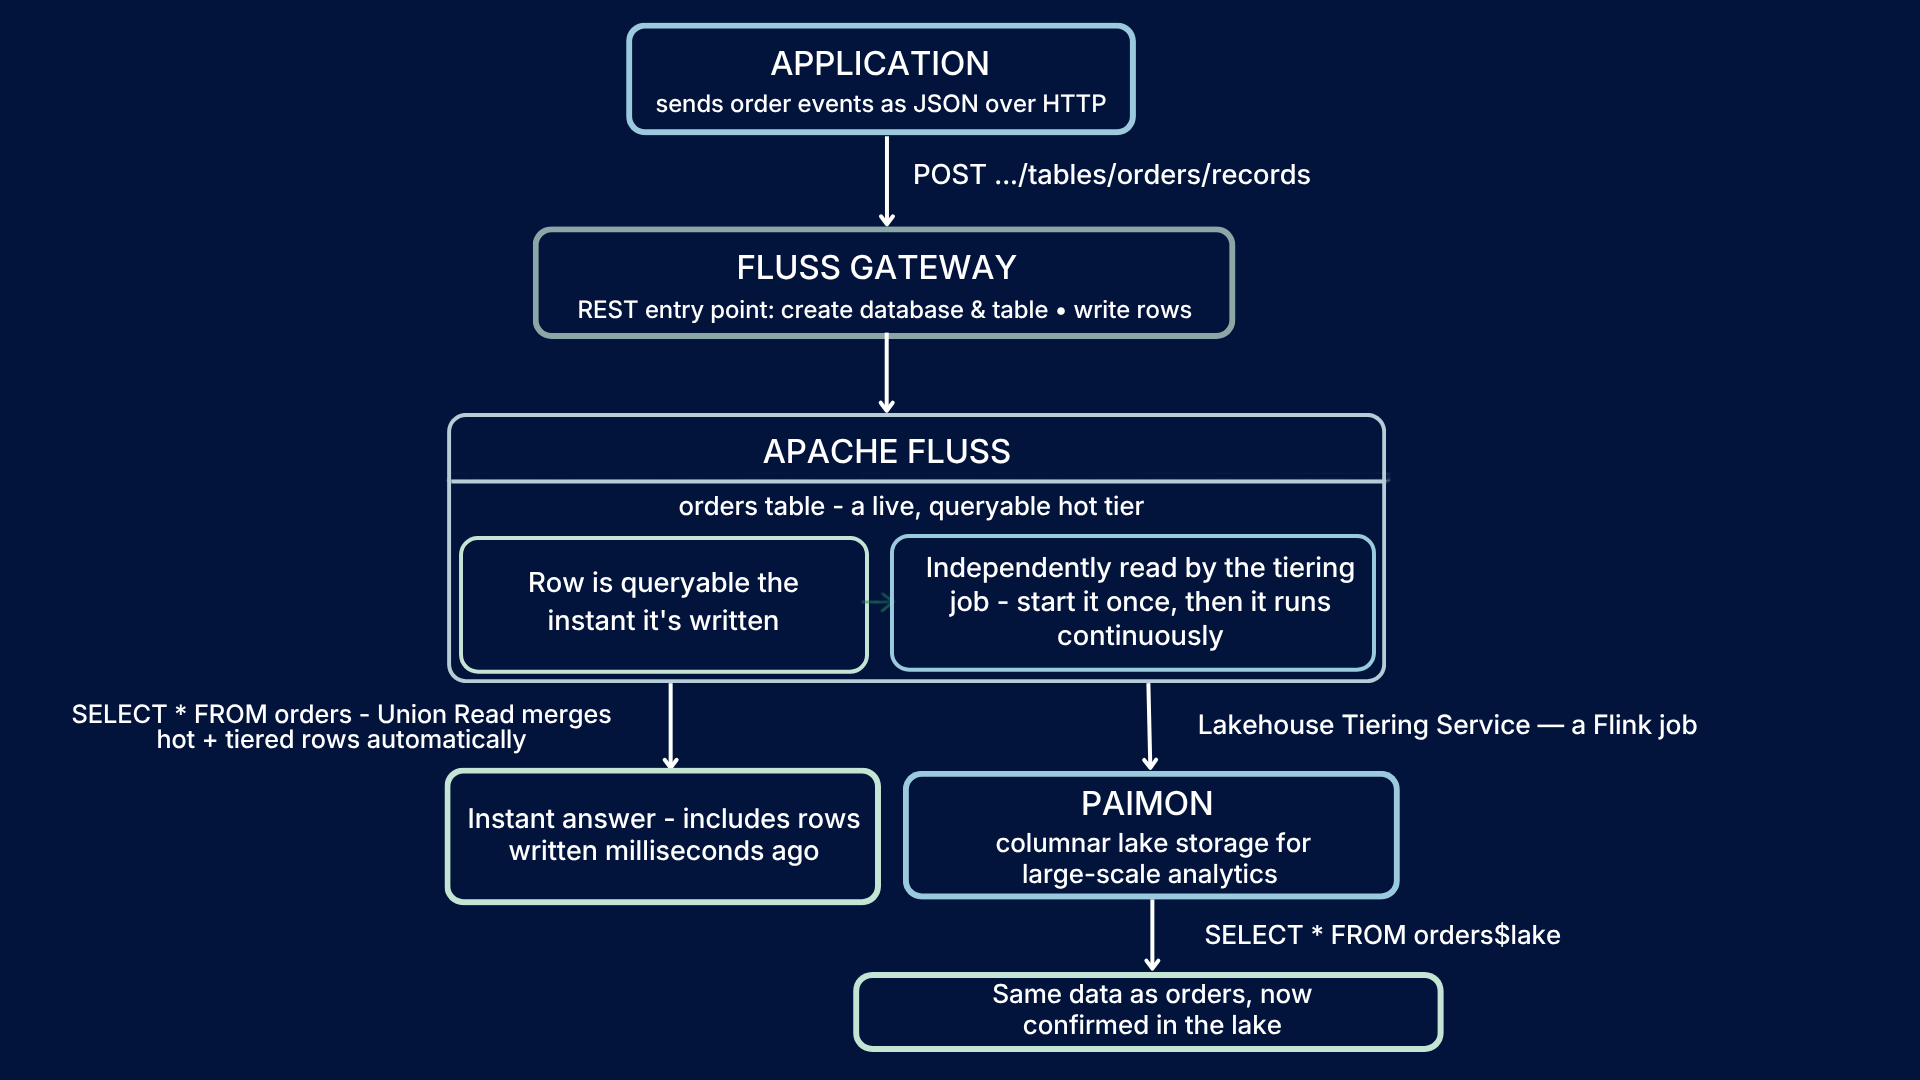
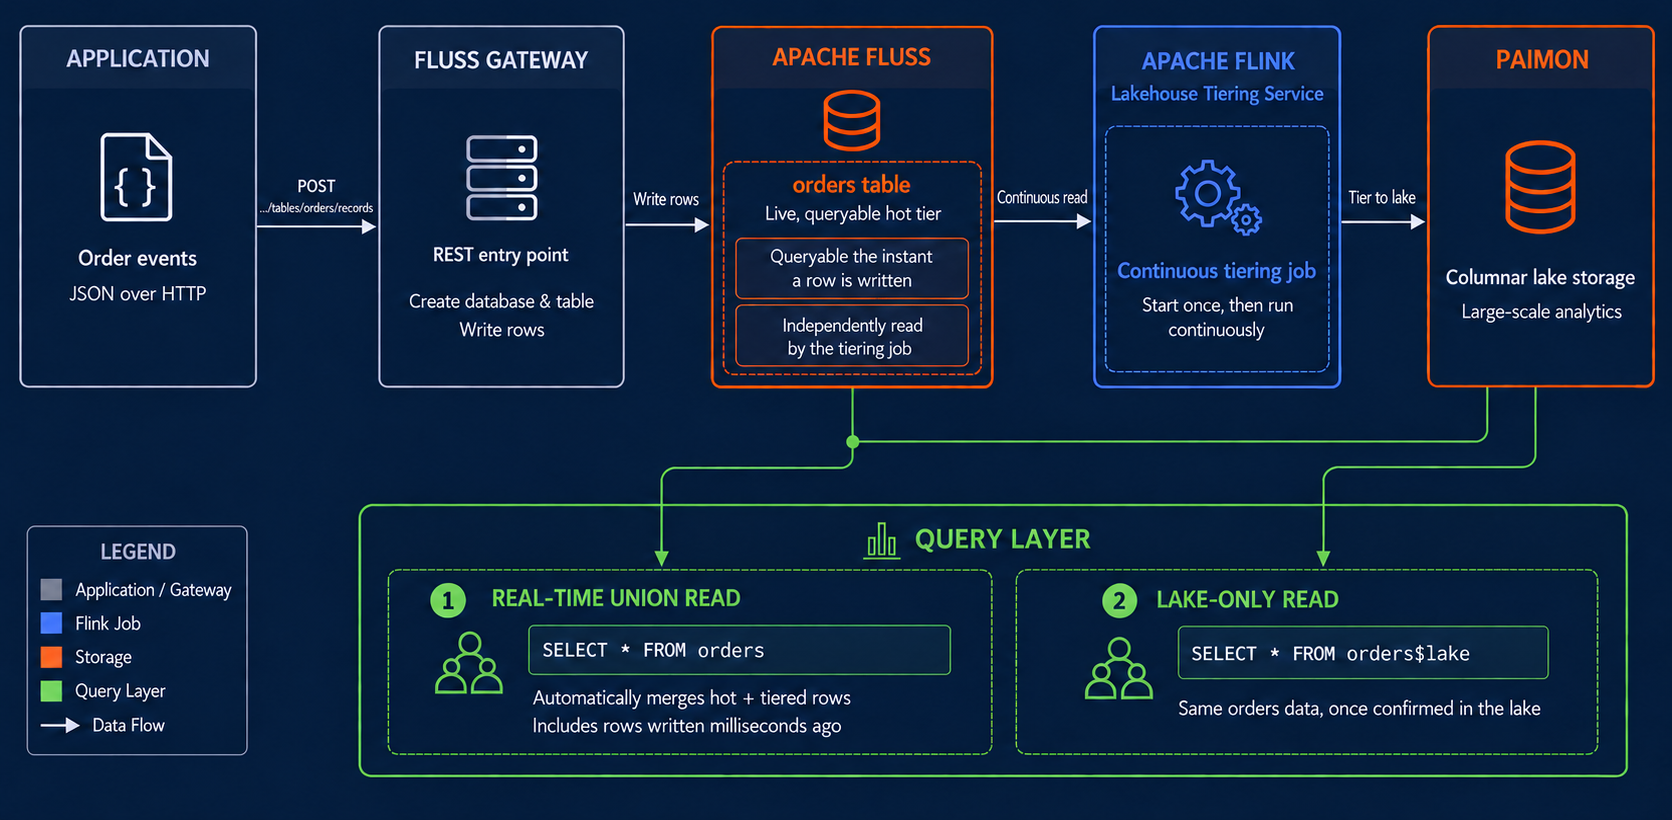
[docs] Refine Gateway lakehouse quickstart (#4342)

diff --git a/website/docs/quickstart/gateway-lakehouse.md b/website/docs/quickstart/gateway-lakehouse.md
@@ -4,31 +4,24 @@ sidebar_position: 5
 ---
 import ThemedImage from '@site/src/components/ThemedImage';
 
-This guide shows how an application can send JSON events to Fluss through
-the Gateway REST API and immediately read them back — without setting up
-a message queue, a Flink ingestion pipeline, or a separate Paimon writer.
-The same table serves both real-time queries and historical lakehouse
-analytics, with Paimon tiering handled automatically in the background.
-
-The example tracks orders flowing through a simple order management system.
-The application writes one HTTP request per batch, no Kafka producer, no
-Flink ingestion job, no separate Paimon writer. Fluss provides immediate
-query visibility in the hot tier, and the reusable Lakehouse Tiering Service
-handles writing to Paimon continuously in the background.
+This quickstart shows how an application sends JSON order events to Fluss
+through the Gateway REST API. Rows are immediately queryable from Fluss and
+continuously tiered to Paimon by the Lakehouse Tiering Service — without a
+separate message queue, ingestion job, or Paimon writer.
 
 In this quickstart, you will:
-
-<ThemedImage
-    alt="gateway lakehouse guide"
-    light="gateway-lakehouse-light.png"
-    dark="gateway-lakehouse-dark.png"
-/>
 
 - spin up Fluss, Fluss Gateway, Flink, Paimon, and RustFS with Docker Compose;
 - create a lake-enabled table through the Gateway REST API;
 - write JSON order records over HTTP;
 - read the records back immediately through Flink SQL before any tiering occurs;
 - confirm that the rows are continuously tiered into Paimon.
+
+<ThemedImage
+    alt="HTTP ingestion and lakehouse tiering flow through Fluss Gateway"
+    light="gateway-lakehouse-light.png"
+    dark="gateway-lakehouse-dark.png"
+/>
 
 :::caution Developer Preview - Fluss 1.0 (unreleased)
 Fluss Gateway is a preview feature in Fluss 1.0, which has not yet been
@@ -491,17 +484,11 @@ exit;
 
 ## What This Quickstart Demonstrates
 
-The application in this quickstart never touches Kafka, Flink, or Paimon directly.
-It only makes HTTP requests to the Gateway. Specifically, there is no need for:
-
-- a Kafka topic or producer;
-- a dedicated Flink ingestion job;
-- a Paimon writer;
-- separate table definitions for the streaming and lake layers.
-
-The Lakehouse Tiering Service does run on Flink, but as shared infrastructure
-that serves all Lake-enabled Fluss tables — not as code the application owns
-or operates.
+The application only makes HTTP requests to the Gateway — no message queue or
+producer, no dedicated Flink ingestion job, no Paimon writer, and no separate
+table definitions for the streaming and lake layers. The Lakehouse Tiering
+Service does run on Flink, but as shared infrastructure serving all
+lake-enabled Fluss tables, not as code the application owns or operates.
 
 ## Preview limitations
 
